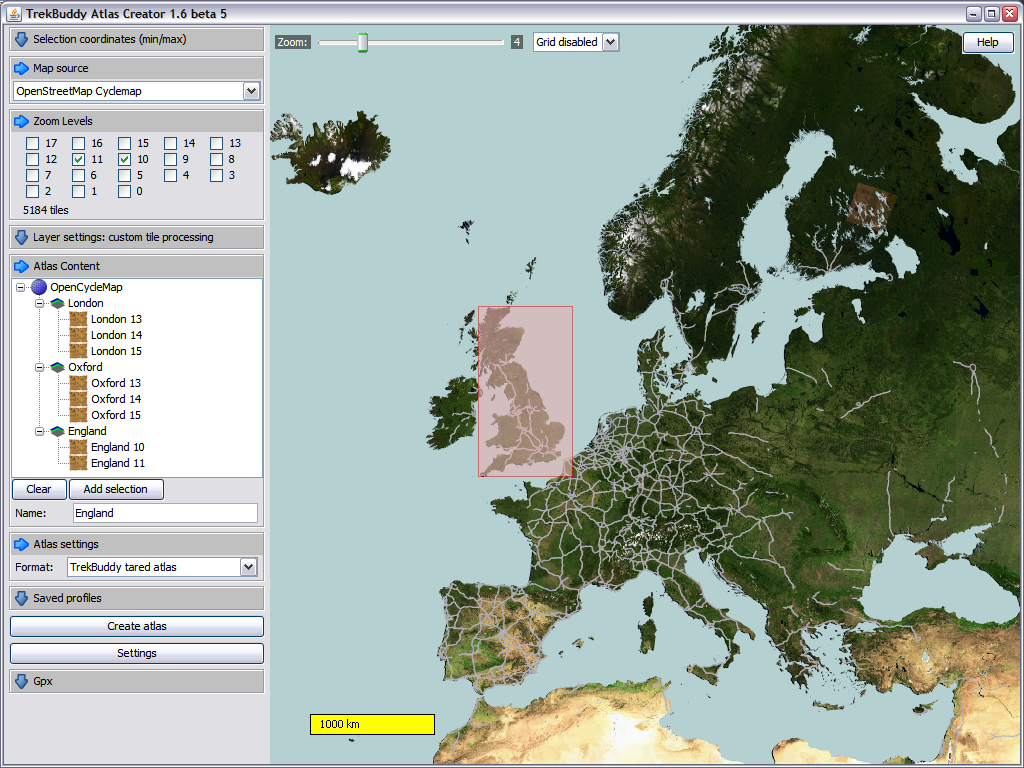
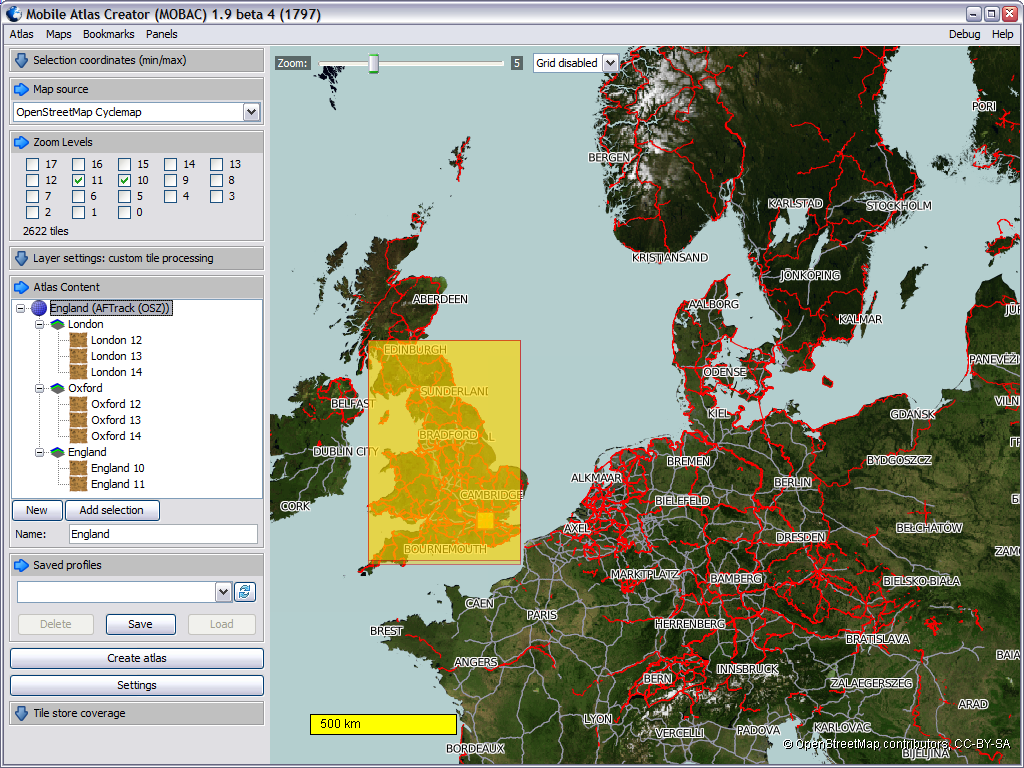
Screenshots updated
git-svn-id: https://mobac.svn.sourceforge.net/svnroot/mobac/trunk@1799 83dc79ef-cac3-4f51-90f7-e9e68c987b9c

diff --git a/website/screenshots.html b/website/screenshots.html
@@ -27,18 +27,18 @@
 	<div id="content">
 		<h1>Screenshots</h1>
 		<div class="screenshot">
-			<h2>San Francisco OpenStreetMap &amp; Google Maps</h2>
-			<a href="screenshots/SanFrancisco.png" target="_new">
+			<h2>San Francisco OpenStreetMap</h2>
+			<a href="screenshots/SanFrancisco.png" target="_blank">
 				<img src="screenshots/SanFrancisco.jpg" alt="Screenshot of Mobile Atlas Creator" />
 			</a>
-			Atlases can contain multiple layers that differ regarding the map source (OpenStreetMap, Google Maps, ...) and 
+			Atlases can contain multiple layers that differ regarding the map source (OpenStreetMap Mapnik, ...) and 
 			zoom level.<br />
-			If a map extends the maximum map size TrekBuddy Atlas Creator automatically fragments the selected area into smaller map parts.
-			The example shows such an area that has been fragmented into 16 smaller map parts.
+			If a map extends the maximum map size defined by the user Mobile Atlas Creator automatically fragments the selected area into smaller map parts.
+			The example shows such an area that has been fragmented into 2 smaller maps.
 		</div>
 		<div class="screenshot">
 			<h2>England OpenCycleMap</h2>
-			<a href="screenshots/OCM-England.png" target="_new">
+			<a href="screenshots/OCM-England.png" target="_blank">
 				<img src="screenshots/OCM-England.jpg" alt="Screenshot of Mobile Atlas Creator" />
 			</a>
 			Sometimes only certain regions of an area are needed. The screenshot shows an atlas that contains maps of 
